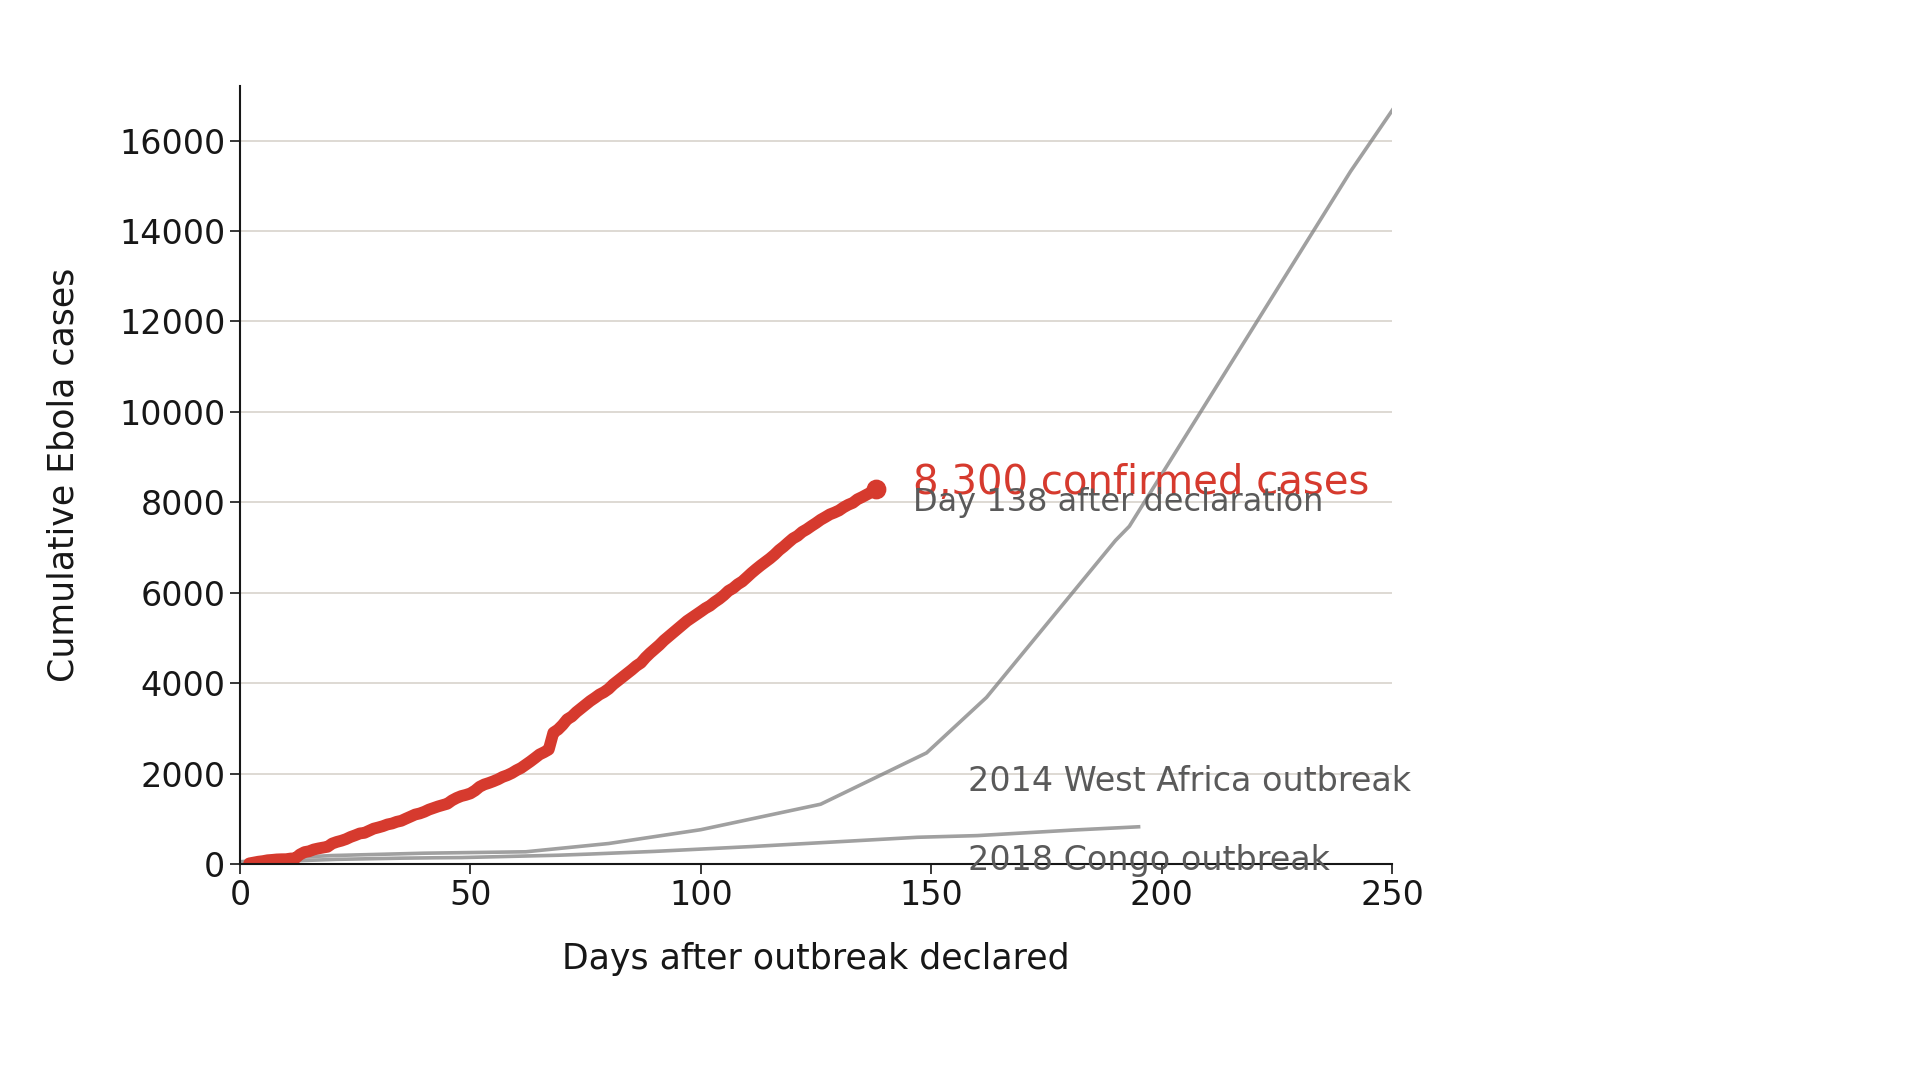
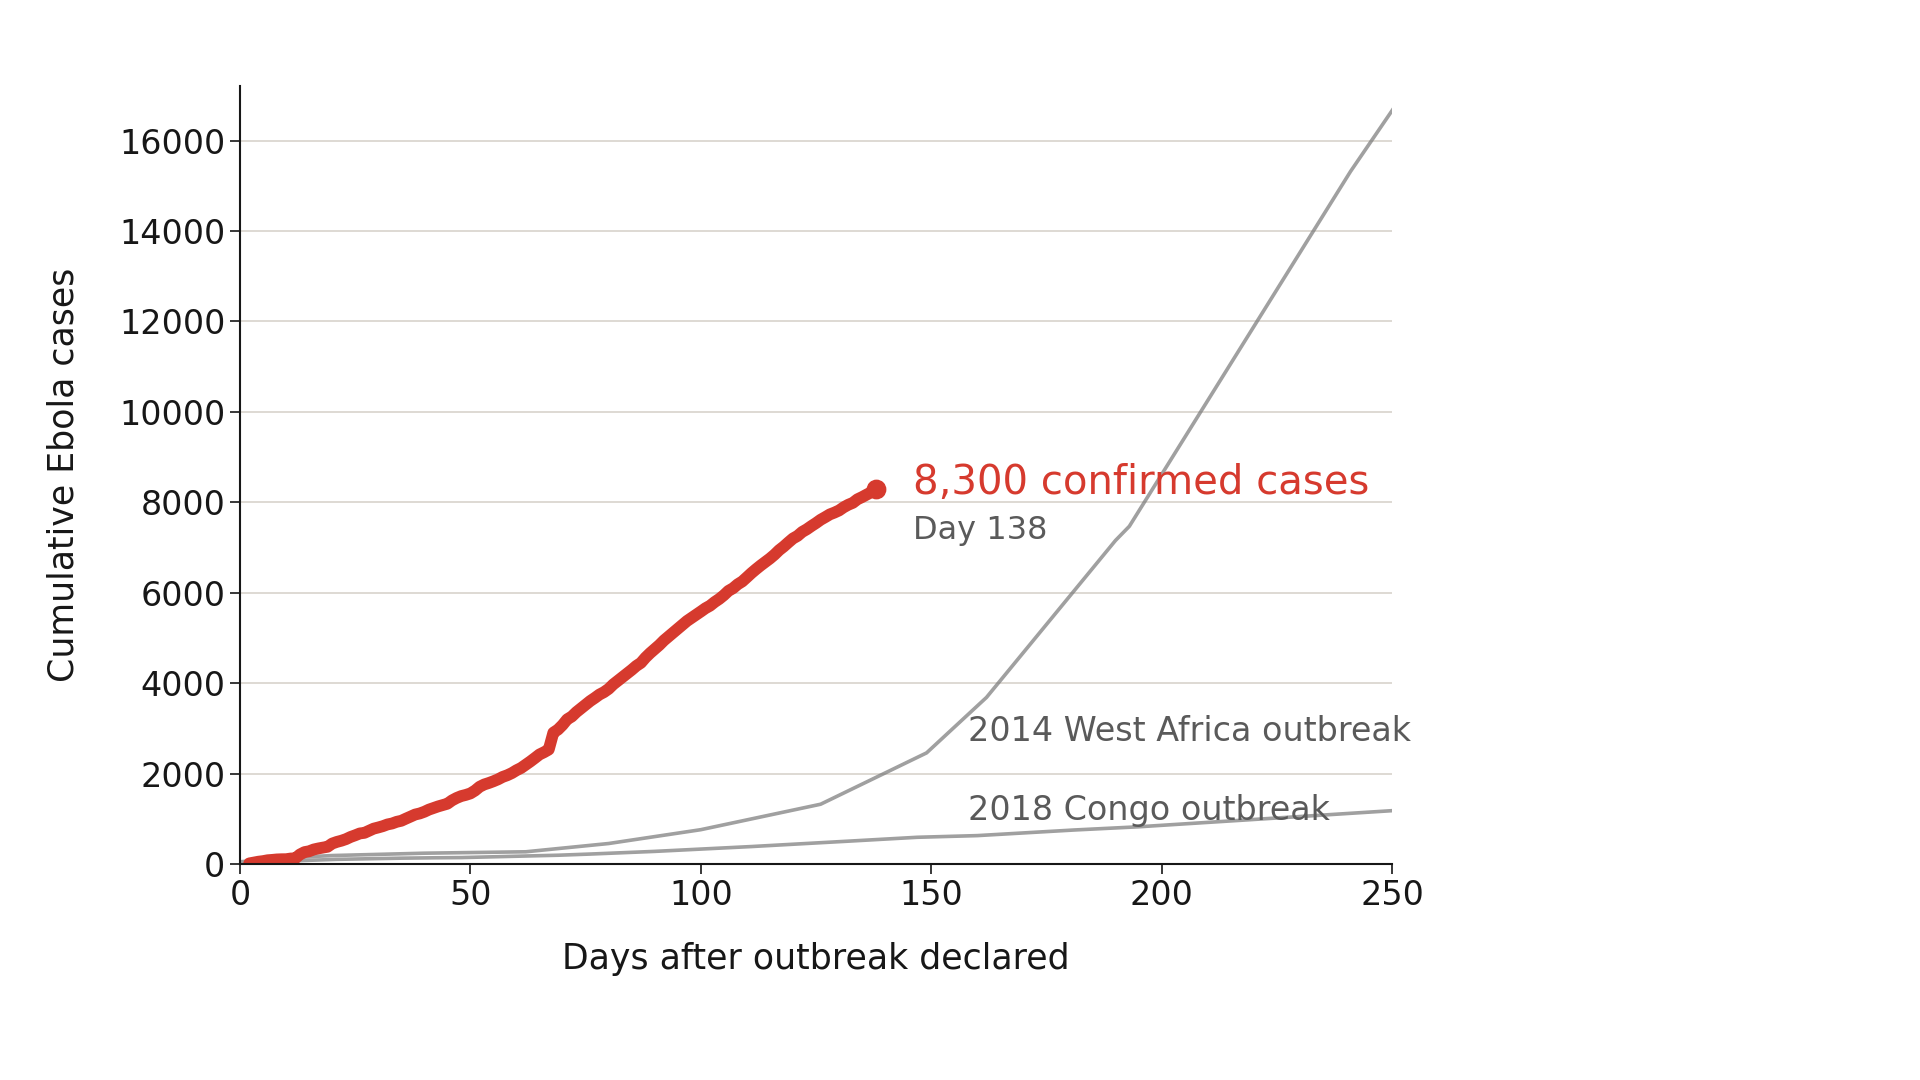
Tune DRC Ebola poster graph

Changed region(s): [[0.5, 0.6417, 0.75, 0.825], [0.4688, 0.4583, 0.6875, 0.5194]]

diff --git a/drc-ebola.html b/drc-ebola.html
@@ -203,7 +203,7 @@
         <button class="play-button" type="button" id="playButton" aria-controls="outbreakVideo">Play animation</button>
       </div>
       <div class="video-wrap">
-        <video id="outbreakVideo" playsinline preload="metadata" poster="public/assets/bundibugyo/bundibugyo_still_red_black_1080p.png?v=20260930-sitrep139-x250-white-2014">
+        <video id="outbreakVideo" playsinline preload="metadata" poster="public/assets/bundibugyo/bundibugyo_still_red_black_1080p.png?v=20260930-sitrep139-x250-white-2018">
           <source src="public/assets/bundibugyo/bundibugyo_full_65_days_1080p.mp4?v=20260930-sitrep139-x250-white-2014" type="video/mp4">
         </video>
       </div>

diff --git a/scripts/bundibugyo/render_bundibugyo_still_red_black.py b/scripts/bundibugyo/render_bundibugyo_still_red_black.py
@@ -72,9 +72,9 @@ def main():
         cy = [p[1] for p in pts]
         ax.plot(cx, cy, color=COMPARE, linewidth=2.6, alpha=0.72)
         if label == "2014 West Africa outbreak":
-            ax.text(158, 2180, "2014 West Africa outbreak", color=MUTED, fontsize=24, ha="left", va="top", linespacing=1.35)
+            ax.text(158, 3300, "2014 West Africa outbreak", color=MUTED, fontsize=24, ha="left", va="top", linespacing=1.35)
         else:
-            ax.text(158, 450, "2018 Congo outbreak", color=MUTED, fontsize=24, ha="left", va="top", linespacing=1.35)
+            ax.text(158, 1550, "2018 Congo outbreak", color=MUTED, fontsize=24, ha="left", va="top", linespacing=1.35)
 
     x = [p[0] for p in current]
     y = [p[1] for p in current]
@@ -105,8 +105,8 @@ def main():
     )
     ax.text(
         label_x,
-        label_y - 92,
-        f"Day {x[-1]} after declaration",
+        label_y - 700,
+        f"Day {x[-1]}",
         color=MUTED,
         fontsize=23,
         ha="left",
